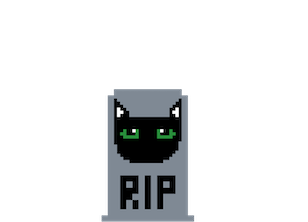
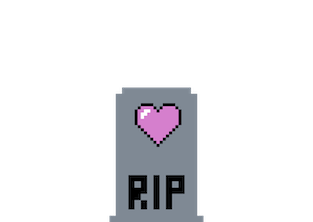
modal progress

Changed region(s): [[0.3214, 0.3784, 0.6721, 1.0]]

diff --git a/src/App.jsx b/src/App.jsx
@@ -3,11 +3,15 @@ import { useState, useEffect } from 'react';
 import Game from './components/Game';
 import ControlPanel from './components/ControlPanel';
 import Buttons from './components/Buttons';
+import GameOver from './assets/GameOver.png';
+import Instructions from './components/Instructions';
+
 function App() {
   const [gameStarted, setGameStarted] = useState(false);
   const [move, setMove] = useState(0);
   const [action, setAction] = useState(null);
   const [gameOver, setGameOver] = useState(false);
+  const [openModal, setOpenModal] = useState(true);
 
   useEffect(() => {
     if (gameOver) {
@@ -18,6 +22,7 @@ function App() {
   return (
     <div className='appWrapper'>
       <div className='gameWrapper'>
+        {openModal && <Instructions setOpenModal={setOpenModal} />}
         {!gameOver && gameStarted && <ControlPanel move={move} />}
         {gameStarted && (
           <Game
@@ -27,6 +32,11 @@ function App() {
             gameOver={gameOver}
             setGameOver={setGameOver}
           />
+        )}
+        {gameOver && (
+          <div>
+            <img className='gameOver' src={GameOver}></img>
+          </div>
         )}
       </div>
       <Buttons

diff --git a/src/components/Instructions.jsx b/src/components/Instructions.jsx
@@ -1,0 +1,21 @@
+/* eslint-disable react/prop-types */
+import '../stylesheets/Instructions.scss';
+
+function Instructions({ setOpenModal }) {
+  function handleClose() {
+    setOpenModal(false);
+  }
+
+  return (
+    <div onClick={handleClose} className='overlay'>
+      <div className='modalContainer'>
+        <div className='modalContents'>
+          Please use the icons to choose your actions: feed, give attention or
+          clean. To begin the game, press the play button!
+        </div>
+      </div>
+    </div>
+  );
+}
+
+export default Instructions;

diff --git a/src/App.scss b/src/App.scss
@@ -2,7 +2,7 @@
   background-image: url(./assets/background/Tatami.png);
   display: flex;
   flex-direction: column;
-  border-radius: 2px 2px 0 0;
+  border-radius: 5px 5px 0 0;
   height: 500px;
   width: 600px;
   justify-content: space-around;
@@ -16,6 +16,14 @@
   align-items: center;
   min-height: 100vh;
   margin: 10vw 0;
+}
+
+.gameOver {
+  display: flex;
+  flex-direction: column;
+  align-items: center;
+  height: 300px;
+  width: auto;
 }
 
 @media screen and (max-width: 599px) {

diff --git a/src/stylesheets/Instructions.scss b/src/stylesheets/Instructions.scss
@@ -1,0 +1,27 @@
+.overlay {
+  top: 0;
+  bottom: 0;
+  left: 0;
+  right: 0;
+  position: fixed;
+  background-color: rgba(1, 5, 2, 0.637);
+}
+
+.modalContainer {
+  display: flex;
+  width: 400px;
+  height: 300px;
+  justify-content: center;
+  text-align: center;
+  background-color: rgb(30, 30, 30);
+  margin: auto;
+  margin-top: 25%;
+  border-radius: 5px;
+}
+
+.modalContents {
+  align-items: center;
+  color: white;
+  display: flex;
+  padding: 15px;
+}

diff --git a/src/components/Game.jsx b/src/components/Game.jsx
@@ -82,6 +82,8 @@ function Game({ setGameStarted, action, setAction, gameOver, setGameOver }) {
       }
       if (clock === dieTime) {
         setStatus('Dead');
+        setGameStarted(false);
+        setGameOver(true);
       }
 
       if (action === 'feed' && status === 'Hungry') {

diff --git a/src/index.scss b/src/index.scss
@@ -1,0 +1,7 @@
+@import url('https://fonts.googleapis.com/css2?family=Roboto+Mono&display=swap');
+
+:root {
+  background-color: #4d4855;
+  background-image: linear-gradient(147deg, #000000 0%, #4d4855 96%);
+  font-family: 'Roboto Mono', monospace;
+}

diff --git a/src/main.jsx b/src/main.jsx
@@ -1,7 +1,7 @@
 import React from 'react';
 import ReactDOM from 'react-dom/client';
 import App from './App.jsx';
-import './index.css';
+import './index.scss';
 
 ReactDOM.createRoot(document.getElementById('root')).render(
   <React.StrictMode>

diff --git a/src/stylesheets/Buttons.scss b/src/stylesheets/Buttons.scss
@@ -9,6 +9,9 @@
   color: white;
 }
 
+.button:hover {
+  color: #ae6563;
+}
 .buttons {
   display: flex;
   flex-direction: row;
@@ -22,4 +25,5 @@
   display: flex;
   width: 600px;
   justify-content: center;
+  border-radius: 0 0 5px 5px;
 }

diff --git a/src/stylesheets/Cat.scss b/src/stylesheets/Cat.scss
@@ -130,6 +130,6 @@
 .catDied {
   background-image: url(../assets/cat/Tombstone.png);
   background-repeat: no-repeat;
-  width: 308px;
+  width: 313px;
   height: 225px;
 }
